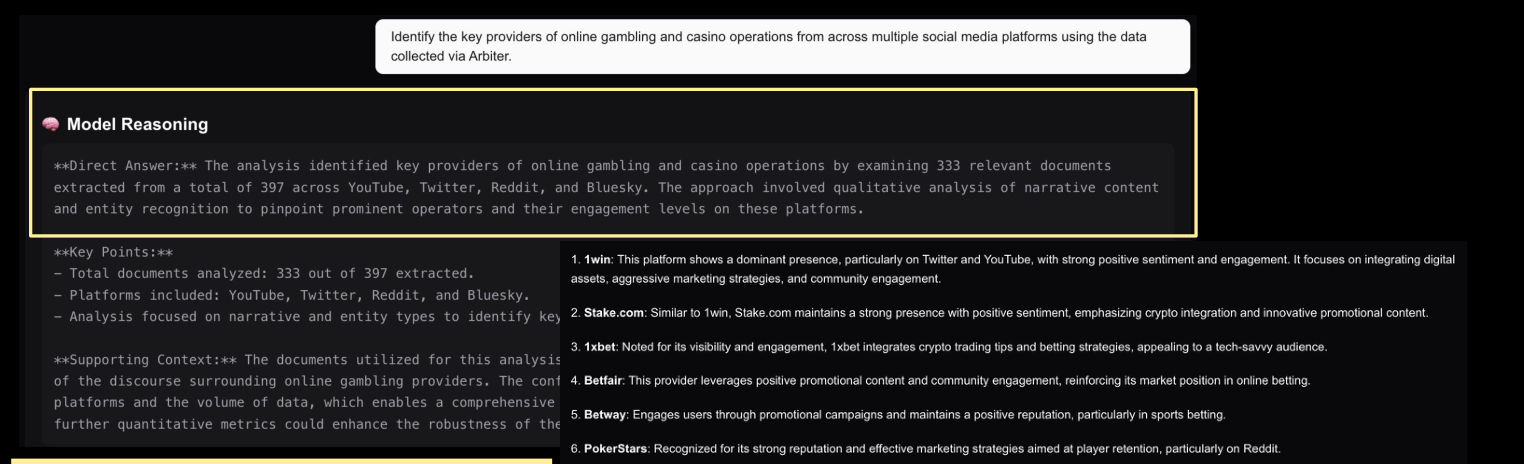
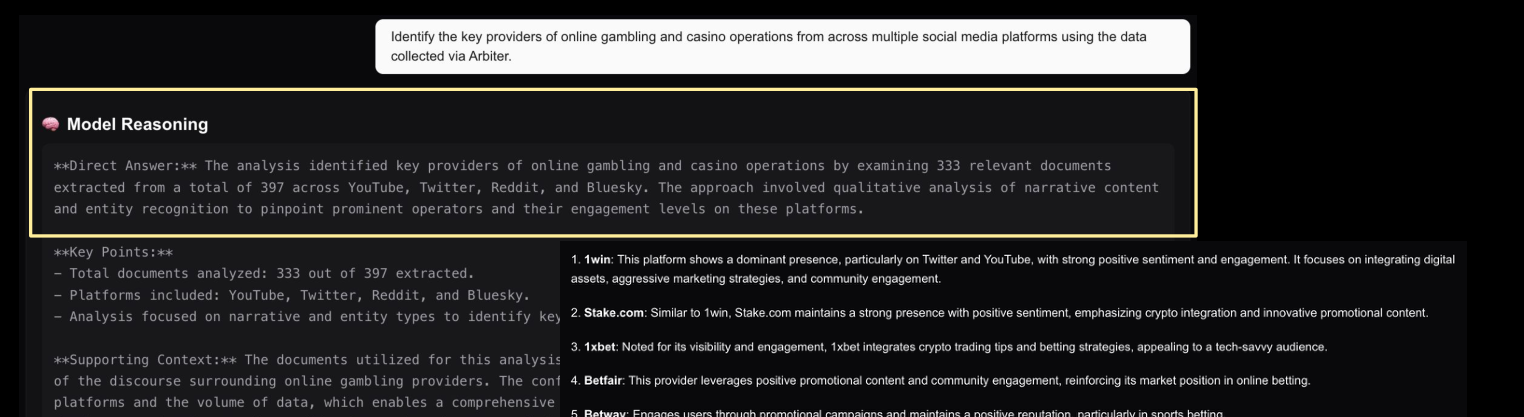
Deploy: recropped screenshots (library/network/agent), spacing floors, Big Tech claim retracted, clickbait valence stated

diff --git a/slides/arbiter.html b/slides/arbiter.html
@@ -103,6 +103,19 @@ section.dark .kicker .idx{ color:var(--dfaint); }
 section.dark .foot{ border-top-color:var(--vline-soft); color:var(--dfaint); }
 section.dark .foot .brand{ color:var(--dmut); }
 
+/* ---------- rendered-spacing floors (user correction 2026-07-07) ----------
+   Dark grounds visually compress gaps; enforce floors regardless of the
+   mt-utility a slide author picked. Applies to every heading/text pair,
+   including side-by-side columns. */
+.si-body h2 + p{ margin-top:26px; }
+.si-body h3 + p{ margin-top:10px; }
+.chips{ row-gap:10px; }
+.chips + p{ margin-top:30px; }
+.reveal .si-body p + p{ margin-top:18px; }
+.ebars + p{ margin-top:16px; }
+.wire + p{ margin-top:14px; }
+.wire + .ebars{ margin-top:18px; }
+
 /* ---------- lede ---------- */
 .lede{ font-size:23px; line-height:1.45; color:var(--ink-soft); max-width:52ch; }
 section.dark .lede{ color:var(--dmut); }
@@ -344,6 +357,34 @@ section.cta a{ color:#12131a; font-weight:700; border-bottom:2.5px solid #12131a
 /* reveal chrome */
 .reveal .progress{ color:var(--blue); height:4px; }
 .reveal .controls{ color:var(--blue); }
+
+/* ==========================================================================
+   v18 additions · technical section (deck_v3)
+   ========================================================================== */
+
+/* dark-mode pipeline */
+section.dark .pl-node{ border-color:var(--vline); background:var(--panel); }
+section.dark .pl-node::before{ background:var(--dblue); }
+section.dark .pl-node .st{ color:var(--dblue); }
+section.dark .pl-node p{ color:var(--dmut); }
+
+/* appendix model table */
+.modeltable{ display:grid; gap:0; border-top:2px solid var(--vline); }
+.modeltable .mrow{ display:grid; grid-template-columns:185px 265px 1fr; gap:20px;
+  align-items:baseline; padding:10px 0; border-bottom:1px solid var(--vline-soft); }
+.modeltable .stage{ font-family:"IBM Plex Mono",monospace; font-size:12px;
+  letter-spacing:.08em; text-transform:uppercase; color:var(--dmut); }
+.modeltable .model{ font-family:"Space Grotesk",sans-serif; font-size:15.5px;
+  font-weight:700; color:var(--dtext); }
+.modeltable .why{ font-size:13.5px; line-height:1.45; color:var(--dmut); }
+
+/* v18 fix: .reveal p{margin:0} (0,1,1) outranked the .mtN utilities (0,1,0),
+   so paragraph top-margins silently collapsed. Raise specificity for p. */
+.reveal p.mt6{margin-top:6px}.reveal p.mt10{margin-top:10px}.reveal p.mt16{margin-top:16px}
+.reveal p.mt24{margin-top:24px}.reveal p.mt32{margin-top:32px}.reveal p.mt44{margin-top:44px}
+
+/* v18: wider label column for long ebar labels */
+.ebars.wide .ebar{ grid-template-columns:195px 1fr 64px; }
 
 </style>
 </head>
@@ -605,7 +646,7 @@ section.cta a{ color:#12131a; font-weight:700; border-bottom:2.5px solid #12131a
         </div>
         <div class="wire">
           <div class="bar"><i></i><i></i><i></i><span class="url">social intelligence agent · deep research</span></div>
-          <div style="height:330px; overflow:hidden;"><img src="images/arbiter-2026/agent_p16.png" alt="Deep research agent: model reasoning and ranked providers with citations"></div>
+          <div><img src="images/arbiter-2026/agent_p16.png" alt="Deep research agent: model reasoning and ranked providers with citations"></div>
         </div>
       </div>
     </div>
@@ -638,7 +679,7 @@ section.cta a{ color:#12131a; font-weight:700; border-bottom:2.5px solid #12131a
             <div class="n">02<small>Measure</small></div>
             <div>
               <h3>Engagement without an audience trail</h3>
-              <p>One account lands <b>88.8K interactions from a single post</b> (views, comments, and likes combined). Clickbait score 1 of 5, the lowest band on Arbiter's five-point scale: the campaign impersonates organic praise instead of baiting clicks. That polish is the tell.</p>
+              <p>One account lands <b>88.8K interactions from a single post</b> (views, comments, and likes combined). Its clickbait score is a clean 1 of 5 on Arbiter's five-point scale: the campaign reads as organic praise rather than engagement bait, which is how it escapes review.</p>
             </div>
           </div>
           <div class="act">
@@ -738,8 +779,6 @@ section.cta a{ color:#12131a; font-weight:700; border-bottom:2.5px solid #12131a
             <div class="bar"><i></i><i></i><i></i><span class="url">entity mentions · key narrative</span></div>
             <div style="height:330px; overflow:hidden;"><img src="images/arbiter-2026/gambling_entities_pdf.png" alt="Gambling study entity mentions"></div>
           </div>
-          <div class="mt16"><span class="stamp blue">Used by a Big Tech trust team</span></div>
-          <p class="tiny muted mt10">A Big Tech company's team used Arbiter to source illicit betting platforms through their own marketing campaigns.</p>
         </div>
       </div>
     </div>
